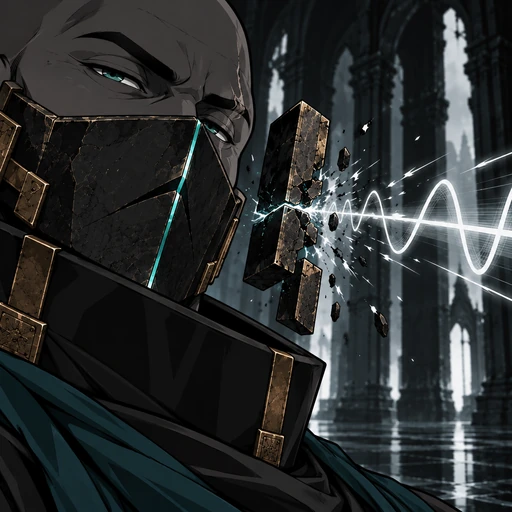
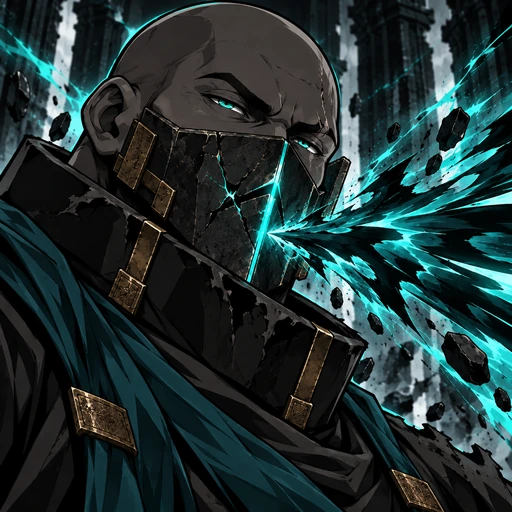
Match Silenciador passive art to offensive comeback and clean up Elo labels

diff --git a/src/main.js b/src/main.js
@@ -555,7 +555,7 @@ function codexView() {
       const owned = profile.ownedIds.includes(character.id);
       return `<article class="codex-card ${!owned ? "unowned" : ""}">
         <div class="codex-card-head color-${character.color}">${character.art?.portrait ? portraitMarkup(character, "codex-portrait") : ""}<span class="codex-card-sigil">${eloSigil(character.eloId)}</span><small>${owned ? "RECRUTADA" : "A RECRUTAR"}</small></div>
-        <div class="codex-card-body"><div class="eyebrow">${esc(character.realm)} · ELO DA ${esc(character.elo).toUpperCase()}</div><h3>${esc(character.name)}</h3>${character.lore ? `<p class="codex-lore">${esc(character.lore)}</p>` : ""}<p>${esc(character.role)} · ${esc(character.roleHint)}</p><div class="codex-passive">${character.passive.art ? `<img src="${esc(character.passive.art)}" alt="" loading="lazy">` : `<span class="passive-fallback color-${esc(character.color)}">${eloSigil(character.eloId)}</span>`}<div><b>${esc(character.passive.name)}</b><span>${esc(character.passive.description)}</span></div></div></div>
+        <div class="codex-card-body"><div class="eyebrow">${esc(character.realm)} · ELO ${esc(character.elo).toUpperCase()}</div><h3>${esc(character.name)}</h3>${character.lore ? `<p class="codex-lore">${esc(character.lore)}</p>` : ""}<p>${esc(character.role)} · ${esc(character.roleHint)}</p><div class="codex-passive">${character.passive.art ? `<img src="${esc(character.passive.art)}" alt="" loading="lazy">` : `<span class="passive-fallback color-${esc(character.color)}">${eloSigil(character.eloId)}</span>`}<div><b>${esc(character.passive.name)}</b><span>${esc(character.passive.description)}</span></div></div></div>
         <div class="codex-moves">${character.abilities.map((ability, index) => `<details class="codex-skill"><summary role="button" tabindex="0" data-codex-skill aria-expanded="false">${ability.art ? `<img src="${esc(ability.art)}" alt="" loading="lazy">` : `<i class="move-fallback color-${esc(character.color)}">${abilityIcon(ability)}</i>`}<b>${esc(ability.name)}</b>${costMarkup(character,ability)}</summary><p>${esc(ability.description)}</p>${ability.forms?.length?`<div class="codex-forms">${ability.forms.map(form=>`<section><header class="${form.art && form.art !== ability.art ? "has-form-art" : ""}">${form.art && form.art !== ability.art ? `<img class="codex-form-art" src="${esc(form.art)}" alt="" loading="lazy">` : ""}<b>↻ ${esc(form.name)}</b>${costMarkup(character,form)}</header><p>${esc(form.description)}</p><small>${esc(form.classes.join(" · "))} · Recarga ${form.cooldown}T</small></section>`).join("")}</div>`:""}<small>${esc(ability.classes.join(" · "))} · Recarga ${ability.cooldown}T</small></details>`).join("")}</div>
       </article>`;
     }).join("")}</div>`;
